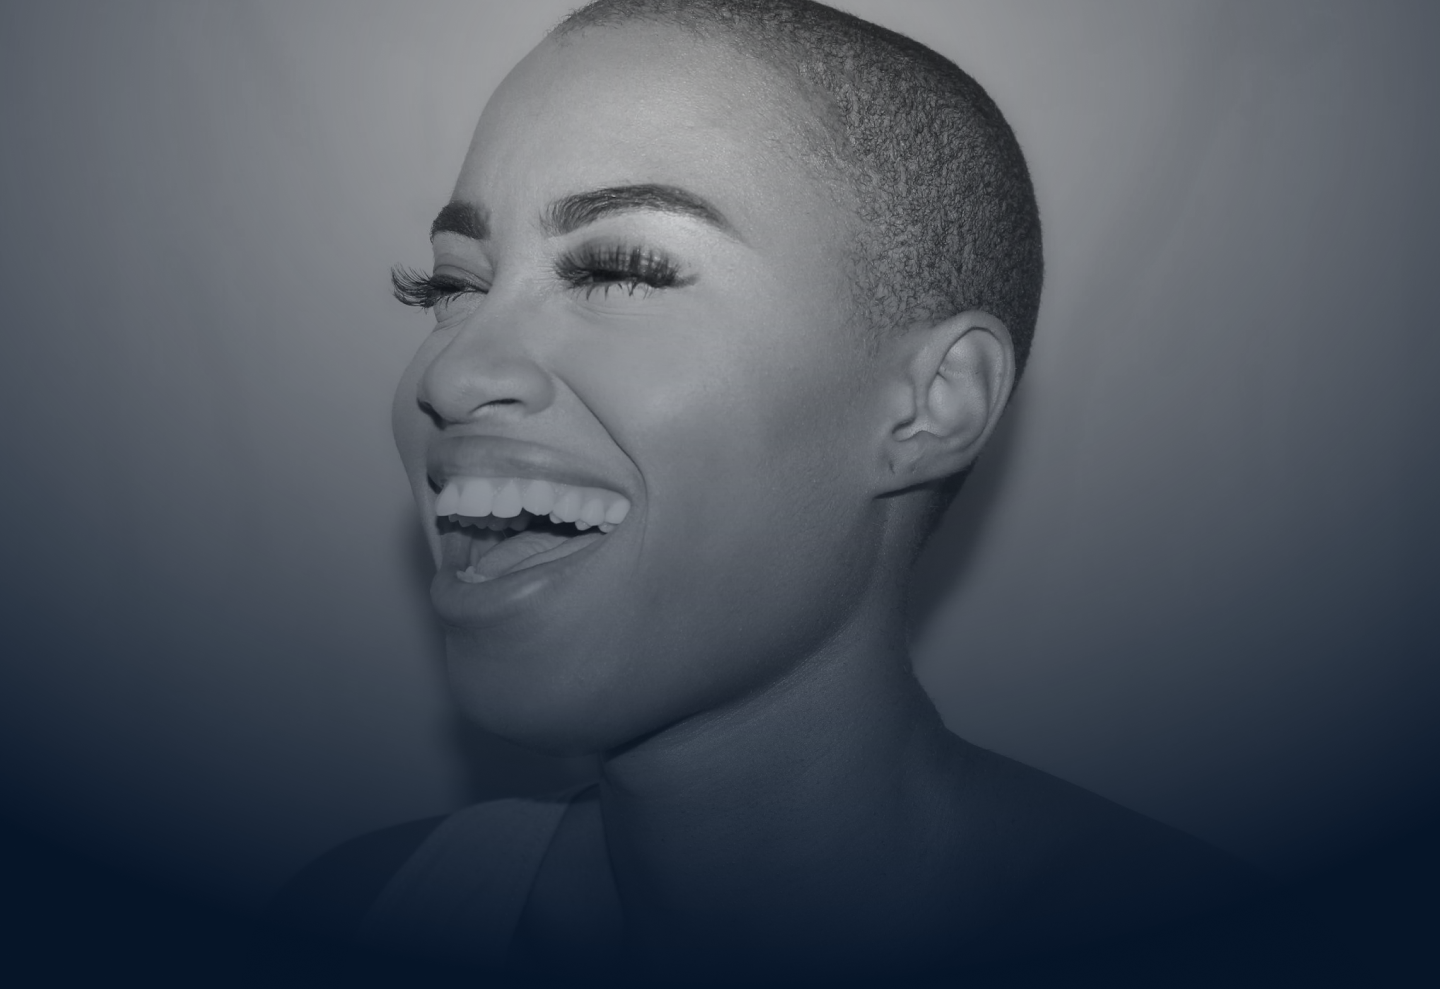
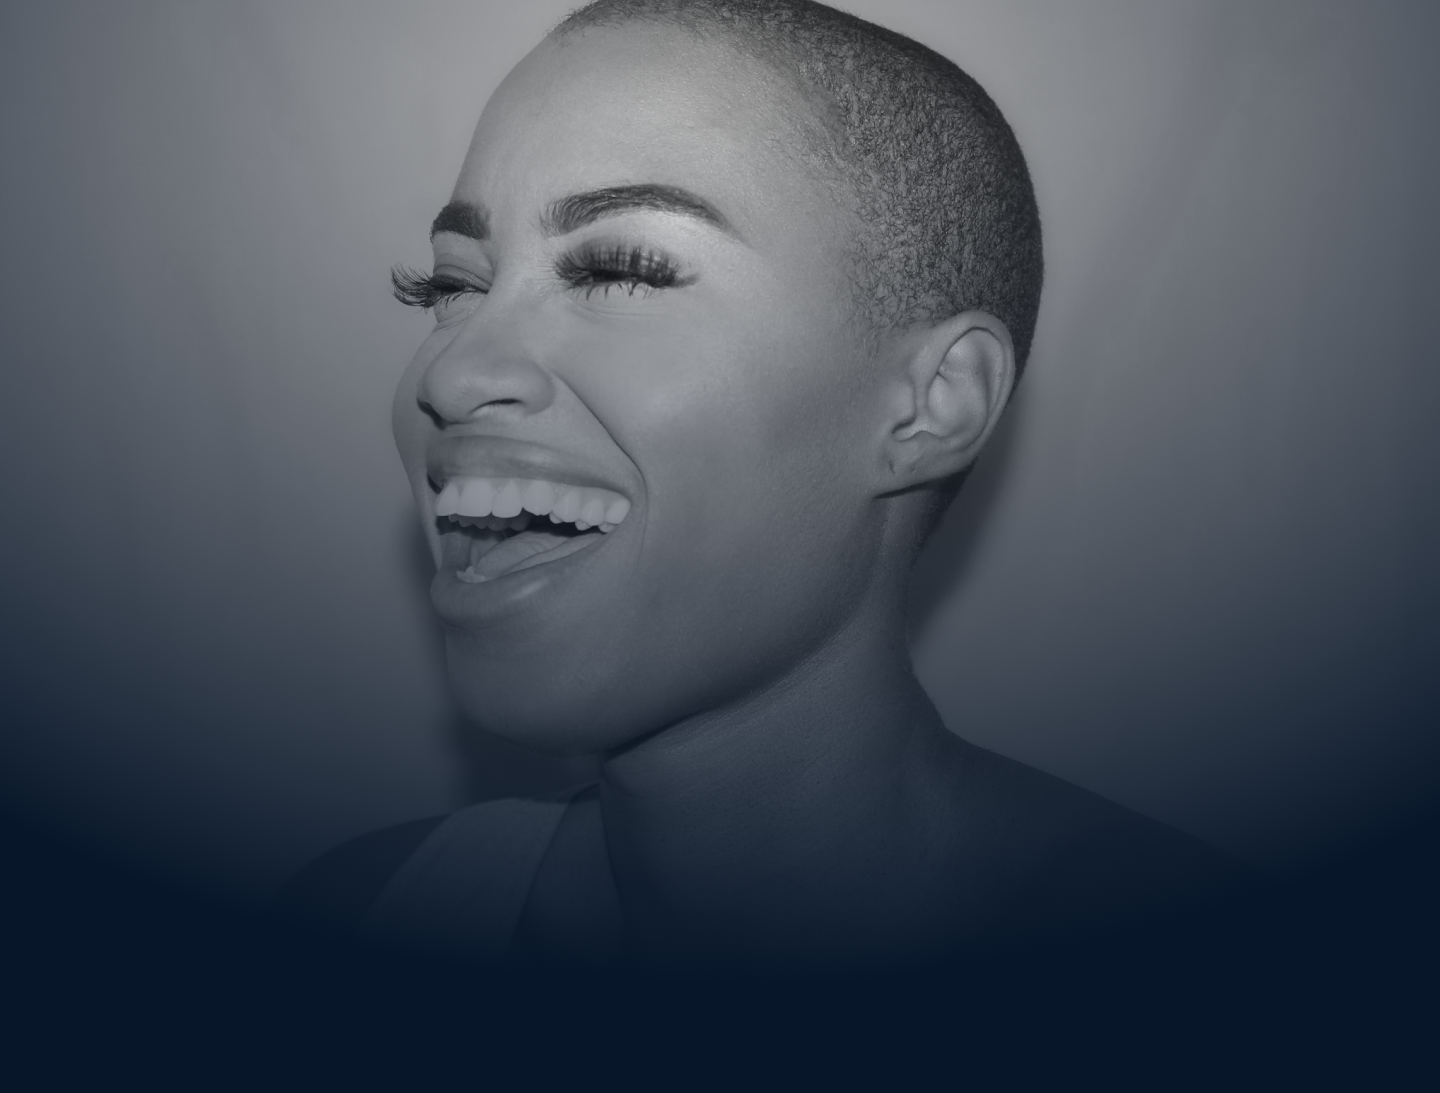
css hero section added

diff --git a/css_advanced/index.html b/css_advanced/index.html
@@ -4,58 +4,102 @@
     <meta charset="UTF-8">
     <meta name="viewport" content="width=device-width, initial-scale=1.0">
     <script src="https://kit.fontawesome.com/4a2b055604.js" crossorigin="anonymous"></script>
+    <link rel="stylesheet" href="styles.css">
+    <link rel="preconnect" href="https://fonts.googleapis.com">
+<link rel="preconnect" href="https://fonts.gstatic.com" crossorigin>
+<link href="https://fonts.googleapis.com/css2?family=Momo+Trust+Display&family=Open+Sans:ital,wght@0,300..800;1,300..800&family=Source+Sans+3:ital,wght@0,200..900;1,200..900&display=swap" rel="stylesheet">
     <title>Document</title>
 </head>
 <body>
-    <header>
-        <nav>
-            <img src="images/logo.png" alt="logo" style="background-color: antiquewhite;" >
-            <!-- <img src="https://fakeimg.pl/250x250?text=Sample+Logo" alt="logo"> -->
-          
-            <ul>
-                <li><a href="#">COURSE</a></li>
-                <li><a href="#">PRICING</a></li>
-                <li><a href="#">LOGIN</a></li>
+<!-- <section class="hero"> -->
+  <header class="hero" >
+     <nav class="navbar">
+         <div class="logo"><img src="images/logo.png" alt="logo"></div>
+         <!-- <img src="https://fakeimg.pl/250x250?text=Sample+Logo" alt="logo"> -->
+            <ul class="navbar-links">
+               <li><a href="#">COURSE</a></li>
+               <li><a href="#">PRICING</a></li>
+               <li><a href="#">LOGIN</a></li>
             </ul>
-        </nav>
-        
-    </header>
-    <main>
-        <section>
-            <div>
-                <h1>Get schooled</h1>
-                <span>SMILES</span>
-                <span>GRIN</span>
-                <span>LAUGH</span>
-                <button>REGISTER FOR FREE</button>
-            </div>
-            <div>
-                <h2>Learn from the pros</h2>
+     </nav>
+     <div class="hero-inner">
+         <h1>Get schooled</h1>
+         <p >SMILES • GRIN • LAUGH</p>
+         <!-- <span>SMILES</span>
+            <span>GRIN</span>
+            <span>LAUGH</span> -->
+          <!-- <button class="main-bttn">REGISTER FOR FREE</button> -->
+     </div> 
+     <div class="bttn"><button class="main-bttn">REGISTER FOR FREE</button></div>
+
+     <div>
+            <h2 class="pro"><span class="pro2">Learn</span> from the pros</h2>
+         <div class="circles">
                 <div>
-                    <div>
-                        <img src="./images/1.png" alt="">
-                        <h3>Phillip Massey</h3>
-                        <p>« Smile of the year » 2018 - 2019</p>
-                    </div>
-                    <div>
-                        <img src="./images/2.png" alt="">
-                        <h3>Nannie Lawrence</h3>
-                        <p>Best « little smile » 2017</p>
-                    </div>
-                    <div>
-                        <img src="./images/3.png" alt="">
-                        <h3>Bruce Walters</h3>
-                        <p>Best « Friend Smile » live performance 2019</p>
-                    </div>
-                    <div>
-                        <img src="./images/4.png" alt="">
-                        <h3>Henry Hughes</h3>
-                        <p>« 24h smiles » winner 2016 - 2019</p>
-                    </div>
-                </div>
-            </div>
-        </section>
-        <section>
+                <img src="./images/1.png" alt="">
+                <h3>Phillip Massey</h3>
+                <p>« Smile of the year »</p>
+                    <p> 2018 - 2019</p>
+             </div>
+             <div>
+               <img src="./images/2.png" alt="">
+                <h3>Nannie Lawrence</h3>
+                <p>Best « little smile »</p> 
+                    <p>2017</p>
+             </div>
+             <div>
+               <img src="./images/3.png" alt="">
+               <h3>Bruce Walters</h3>
+               <p>Best « Friend Smile »</p>
+                <p>live performance 2019</p>
+             </div>
+             <div>
+                 <img src="./images/4.png" alt="">
+                  <h3>Henry Hughes</h3>
+                  <p>« 24h smiles »</p>
+                    <p>winner 2016 - 2019</p>
+             </div>
+          </div>
+     </div>
+
+        </header>
+        <main>
+            <section>
+                <!-- <div class="hero-inner">
+                    <h1>Get schooled</h1>
+                    <span>SMILES</span>
+                    <span>GRIN</span>
+                    <span>LAUGH</span>
+                    <button>REGISTER FOR FREE</button>
+                </div> -->
+                <!-- <div>
+                    <h2>Learn from the pros</h2>
+                    <div class="circles">
+                        <div>
+                            <img src="./images/1.png" alt="">
+                            <h3>Phillip Massey</h3>
+                            <p>« Smile of the year » 2018 - 2019</p>
+                        </div>
+                        <div>
+                            <img src="./images/2.png" alt="">
+                            <h3>Nannie Lawrence</h3>
+                            <p>Best « little smile » 2017</p>
+                        </div>
+                        <div>
+                            <img src="./images/3.png" alt="">
+                            <h3>Bruce Walters</h3>
+                            <p>Best « Friend Smile » live performance 2019</p>
+                        </div>
+                        <div>
+                            <img src="./images/4.png" alt="">
+                            <h3>Henry Hughes</h3>
+                            <p>« 24h smiles » winner 2016 - 2019</p>
+                        </div>
+                    </div> -->
+                <!-- </div>
+            </section> -->
+     <!-- </section> -->
+    
             <div>
                 <img src="./images/5.png" alt="image">
             </div>
@@ -136,6 +180,7 @@
                     <div><i class="fa-solid fa-star"></i></div>
                     <div><i class="fa-solid fa-star"></i></div>
                     <div><i class="fa-solid fa-star"></i></div> -->
+
                     <img src="images/rating.png" alt="">
                 </div>
                 <p>8 min</p>
@@ -203,8 +248,9 @@
     <footer>
         <section>
             <div>
+                <div>
                     <img src="images/logo.png" alt="logo"          style="background-color: antiquewhite;">
-                    <!-- <img src="https://fakeimg.pl/250x250?text=Sample+Logo" alt="logo"> -->
+                    <img src="https://fakeimg.pl/250x250?text=Sample+Logo" alt="logo">
                     <div>
                     <i class="fa-brands fa-facebook"></i>
                     <i class="fa-brands fa-twitter"></i>

diff --git a/css_advanced/styles.css b/css_advanced/styles.css
@@ -1,0 +1,182 @@
+html{
+    margin: 0;
+	padding: 0;
+	border: 0;
+	font-size: 100%;
+	font: inherit; 
+	/* vertical-align: baseline;*/
+}
+.momo-trust-display-regular {
+  font-family: "Momo Trust Display", sans-serif;
+  font-weight: 400;
+  font-style: normal;
+}
+
+
+.open-sans-uniquifier {
+  font-family: "Open Sans", sans-serif;
+  font-optical-sizing: auto;
+  font-weight: weight;
+  font-style: normal;
+  font-variation-settings:
+    "wdth" 100;
+}
+
+.source-sans-3-uniquifier{
+ font-family: "Source Sans 3", sans-serif;
+  font-optical-sizing: auto;
+  font-weight: weight;
+  font-style: normal;
+}
+
+.hero{
+    background: url(images/Object.png);
+
+     /* display: flex;   */
+    height: 170vh;
+    /* height: 1200px; */
+    /* flex-direction: row; */
+    /* flex-direction: column; */
+    /* align-items: center;
+    justify-content: center;
+    flex-direction: row;
+    flex: auto; */
+}
+/* .hero::after{
+    content: "";
+    position: absolute;
+    top: 0;
+    left: 0;
+    width: 100%;
+    height: 100%;
+    
+} */
+ .logo{
+    float: left;
+    margin: 12px 12px;
+
+ }
+ .navbar{
+    /* position: absolute; */
+    display: flex;
+    /* float: right; */
+    /* z-index: 2; */
+    justify-content: space-between;
+   overflow: hidden; 
+   /* align-items: center; */
+ }
+ .navbar-links{
+    list-style: none;
+    display: flex;
+    gap: 30px;
+    float: right;
+    text-decoration: none;
+    
+ }
+ .navbar-links a{
+    text-decoration: none;
+    color: white;
+    font-weight: 600;
+    font-size: 14px;
+ }
+ .hero-inner{
+     position: relative; 
+    /* z-index: 2; */
+ }
+ .hero-inner{
+    /* justify-content: center; */
+    display: flex;
+    /* align-items: center; */
+    flex-direction: column;
+ }
+ .circles{
+    display: flex;
+    justify-content: space-evenly;
+    align-items: center;
+    border-radius: 50%;
+    /* margin-left: 217px;
+    margin-right: 217px; */
+    margin-top: 80px;
+    margin-bottom: 98px;
+    gap: 10px;
+padding-left: 139px;
+padding-right: 139px;
+ }
+ .circles img{
+   border-radius: 50%; 
+   
+    margin-bottom: 10px;
+    width: 150px;
+    height: 150px;
+
+ }
+ .circles h3{
+   margin-top: 10px;
+   color: white;
+   
+ }
+ .circles p{
+   margin-top: 5px;
+   color: white;
+ }
+
+ 
+ .hero-inner h1 {
+    display: flex;
+    font-size: 120px;
+    margin: 0;
+    align-items: center;
+    justify-content: center;
+    color: white;
+    margin-top: 200px;
+}
+.hero-inner p{
+   margin-top: 10px;
+    display: flex;
+    align-items: center;
+    justify-content: center;
+    padding: 5px;
+
+}
+
+.tags {
+    display: flex;
+    align-items: center;
+    justify-content: center;
+    margin-top: 10px;
+    margin: 10px 0 10px;
+    padding-bottom: 10px;
+}
+.bttn{
+   display: flex;
+   justify-content: center;
+    align-items: center; 
+    margin-bottom: 168px;
+    margin-top: 38px;
+}
+/* Button */
+.main-bttn {
+     /* display: flex;  */
+     justify-content: center;
+    align-items: center; 
+    background-color: #d94fff;
+    color: white;
+    padding: 12px 8px;
+    border: none;
+    border-radius: 30px;
+    font-size: 14px;
+    cursor: pointer;
+    
+    /* margin: 200px 200px; */
+    
+}
+.pro{
+    display: flex;
+    justify-content: center;
+    align-items: center;
+    font-size: 32px;
+    color: white;
+}
+.pro2{
+   color: #d94fff;
+}
